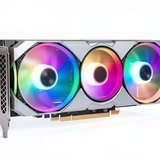
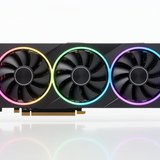
Home: photoreal FLUX.2 thumbnails
Claude-Session: https://claude.ai/code/session_01Pn4hNDRWRVhm438Rr9UBh8

diff --git a/index.html b/index.html
@@ -95,7 +95,7 @@
             </div>
           </a>
           <a class="tile" href="motion-transfer.html">
-            <div class="tile-media"><img src="img/home/tile-motion-transfer.jpg?v=2" alt="" /></div>
+            <div class="tile-media"><img src="img/home/tile-motion-transfer.jpg?v=3" alt="" /></div>
             <span class="tile-recipe">Character image + dance video &#8594; your character dancing</span>
             <div class="tile-body">
               <h2 class="tile-title">Motion Transfer <span class="htag is-top">Top</span></h2>
@@ -103,7 +103,7 @@
             </div>
           </a>
           <a class="tile" href="lip-sync.html">
-            <div class="tile-media"><img src="img/home/tile-lip-sync.jpg?v=2" alt="" /></div>
+            <div class="tile-media"><img src="img/home/tile-lip-sync.jpg?v=3" alt="" /></div>
             <span class="tile-recipe">Face photo + audio clip &#8594; talking video</span>
             <div class="tile-body">
               <h2 class="tile-title">Lip Sync <span class="htag">New</span></h2>
@@ -111,7 +111,7 @@
             </div>
           </a>
           <a class="tile" href="wan-video.html">
-            <div class="tile-media"><img src="img/home/tile-wan-video.jpg?v=2" alt="" /></div>
+            <div class="tile-media"><img src="img/home/tile-wan-video.jpg?v=3" alt="" /></div>
             <span class="tile-recipe">Your trained identities + a prompt &#8594; video</span>
             <div class="tile-body">
               <h2 class="tile-title">WAN Video <span class="htag">New</span></h2>
@@ -119,7 +119,7 @@
             </div>
           </a>
           <a class="tile" href="image-studio.html">
-            <div class="tile-media"><img src="img/home/tile-image-studio.jpg?v=2" alt="" /></div>
+            <div class="tile-media"><img src="img/home/tile-image-studio.jpg?v=3" alt="" /></div>
             <span class="tile-recipe">Prompt or photo &#8594; new image</span>
             <div class="tile-body">
               <h2 class="tile-title">Image Studio</h2>
@@ -127,7 +127,7 @@
             </div>
           </a>
           <a class="tile" href="train-lora.html">
-            <div class="tile-media"><img src="img/home/tile-train-lora.jpg?v=2" alt="" /></div>
+            <div class="tile-media"><img src="img/home/tile-train-lora.jpg?v=3" alt="" /></div>
             <span class="tile-recipe">15&ndash;30 images + a trigger word &#8594; custom LoRA</span>
             <div class="tile-body">
               <h2 class="tile-title">Train LoRA</h2>
@@ -142,11 +142,11 @@
       </div>
 
       <nav class="quick" aria-label="Free tools">
-        <a href="prompt-generator.html"><img src="img/home/icon-prompt-generator.jpg?v=2" alt="" />Prompt Generator <small>free, no signup</small></a>
-        <a href="gallery.html"><img src="img/home/icon-prompt-gallery.jpg?v=2" alt="" />Prompt Gallery <small>prompts behind the posts</small></a>
-        <a href="resources.html"><img src="img/home/icon-tools-directory.jpg?v=2" alt="" />AI tools directory</a>
-        <a href="ai-transitions.html"><img src="img/home/icon-frame-extractor.jpg?v=2" alt="" />Frame Extractor <small>for AI transitions</small></a>
-        <a href="gpu-status.html"><img src="img/home/icon-system-status.jpg?v=2" alt="" />System status</a>
+        <a href="prompt-generator.html"><img src="img/home/icon-prompt-generator.jpg?v=3" alt="" />Prompt Generator <small>free, no signup</small></a>
+        <a href="gallery.html"><img src="img/home/icon-prompt-gallery.jpg?v=3" alt="" />Prompt Gallery <small>prompts behind the posts</small></a>
+        <a href="resources.html"><img src="img/home/icon-tools-directory.jpg?v=3" alt="" />AI tools directory</a>
+        <a href="ai-transitions.html"><img src="img/home/icon-frame-extractor.jpg?v=3" alt="" />Frame Extractor <small>for AI transitions</small></a>
+        <a href="gpu-status.html"><img src="img/home/icon-system-status.jpg?v=3" alt="" />System status</a>
       </nav>
     </div>
   </section>
@@ -161,35 +161,35 @@
       </div>
       <div class="studios">
         <a class="studio" href="motion-transfer.html">
-          <div class="studio-art"><img src="img/home/studio-motion-transfer.jpg?v=2" alt="" /><span class="htag is-top">Top</span></div>
+          <div class="studio-art"><img src="img/home/studio-motion-transfer.jpg?v=3" alt="" /><span class="htag is-top">Top</span></div>
           <div class="studio-body"><h3>Motion Transfer</h3><p>Make a still character perform the motion from any driving video.</p><span class="studio-where">Your GPU</span></div>
         </a>
         <a class="studio" href="lip-sync.html">
-          <div class="studio-art"><img src="img/home/studio-lip-sync.jpg?v=2" alt="" /><span class="htag">New</span></div>
+          <div class="studio-art"><img src="img/home/studio-lip-sync.jpg?v=3" alt="" /><span class="htag">New</span></div>
           <div class="studio-body"><h3>Lip Sync</h3><p>Turn a face photo and an audio clip into a talking, lip-synced video.</p><span class="studio-where">Your GPU</span></div>
         </a>
         <a class="studio" href="wan-video.html">
-          <div class="studio-art"><img src="img/home/studio-wan-video.jpg?v=2" alt="" /><span class="htag">New</span></div>
+          <div class="studio-art"><img src="img/home/studio-wan-video.jpg?v=3" alt="" /><span class="htag">New</span></div>
           <div class="studio-body"><h3>WAN Video</h3><p>Generate video starring the identities you&rsquo;ve trained.</p><span class="studio-where">Your GPU</span></div>
         </a>
         <a class="studio" href="image-studio.html">
-          <div class="studio-art"><img src="img/home/studio-image-studio.jpg?v=2" alt="" /></div>
+          <div class="studio-art"><img src="img/home/studio-image-studio.jpg?v=3" alt="" /></div>
           <div class="studio-body"><h3>Image Studio</h3><p>Create or edit images with a choice of local models and custom LoRAs.</p><span class="studio-where">Your GPU</span></div>
         </a>
         <a class="studio" href="train-lora.html">
-          <div class="studio-art"><img src="img/home/studio-train-lora.jpg?v=2" alt="" /></div>
+          <div class="studio-art"><img src="img/home/studio-train-lora.jpg?v=3" alt="" /></div>
           <div class="studio-body"><h3>Train LoRA</h3><p>Train a custom LoRA from a handful of images and a trigger word.</p><span class="studio-where">Your GPU</span></div>
         </a>
         <a class="studio" href="prompt-generator.html">
-          <div class="studio-art"><img src="img/home/studio-prompt-generator.jpg?v=2" alt="" /><span class="htag is-free">Free</span></div>
+          <div class="studio-art"><img src="img/home/studio-prompt-generator.jpg?v=3" alt="" /><span class="htag is-free">Free</span></div>
           <div class="studio-body"><h3>Prompt Generator</h3><p>Model-specific prompts for ChatGPT, Midjourney, Veo, Kling, Wan and more.</p><span class="studio-where">In your browser</span></div>
         </a>
         <a class="studio" href="ai-transitions.html">
-          <div class="studio-art"><img src="img/home/studio-ai-transitions.jpg?v=2" alt="" /><span class="htag is-free">Free</span></div>
+          <div class="studio-art"><img src="img/home/studio-ai-transitions.jpg?v=3" alt="" /><span class="htag is-free">Free</span></div>
           <div class="studio-body"><h3>AI Transitions</h3><p>Grab the exact first and last frames of a clip to use as keyframes.</p><span class="studio-where">In your browser</span></div>
         </a>
         <a class="studio" href="gallery.html">
-          <div class="studio-art"><img src="img/home/studio-prompt-gallery.jpg?v=2" alt="" /></div>
+          <div class="studio-art"><img src="img/home/studio-prompt-gallery.jpg?v=3" alt="" /></div>
           <div class="studio-body"><h3>Prompt Gallery</h3><p>Post your AI images and videos with the prompts that made them.</p><span class="studio-where">Community</span></div>
         </a>
       </div>
